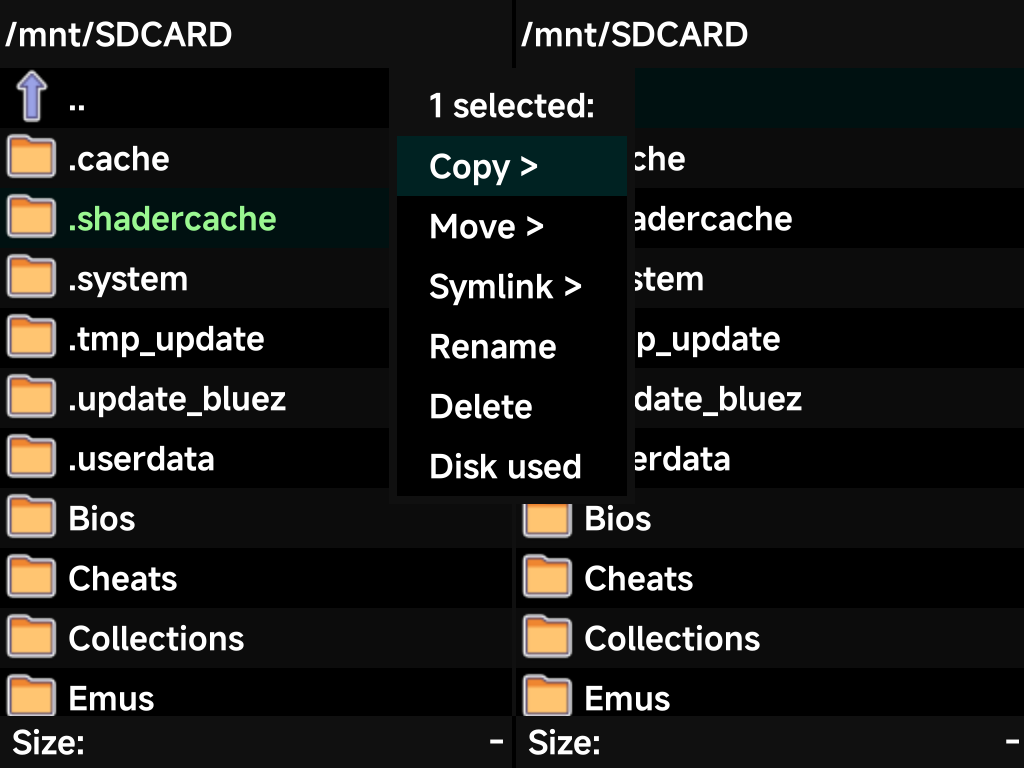
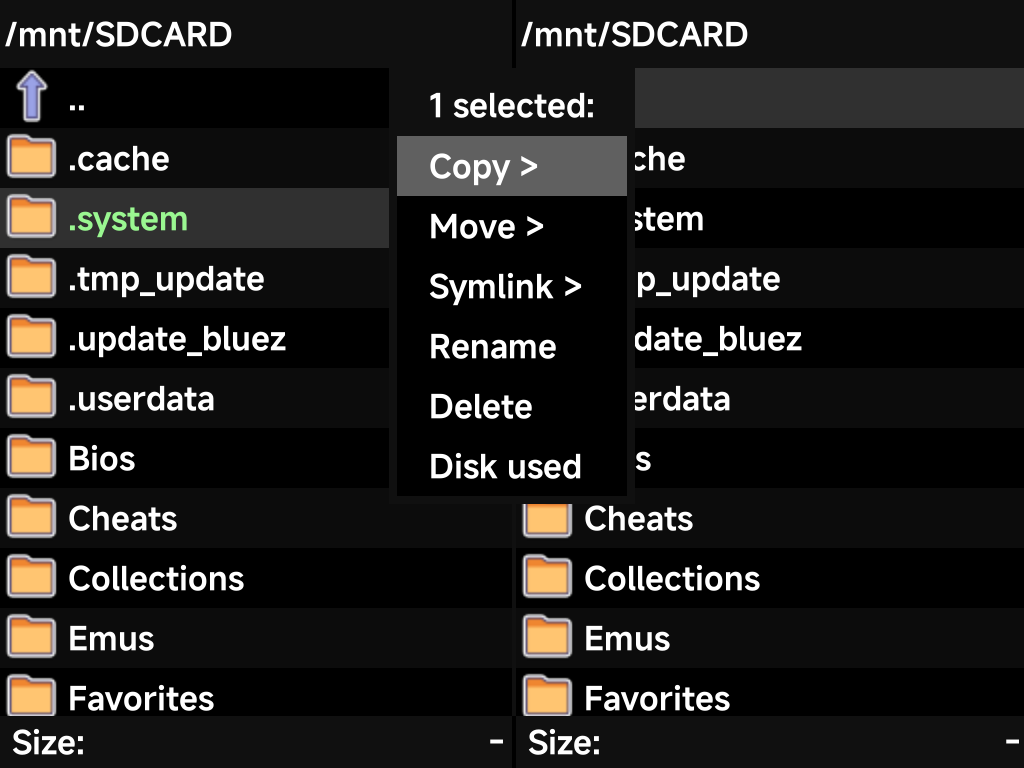
docs(files): refresh screenshots for the gray cursor, note stick navigation, hold-to-scroll and the button layout

diff --git a/docs/apps/files.md b/docs/apps/files.md
@@ -7,10 +7,16 @@ card and copy, move, rename or delete files without a computer.
 
 - Two independent panes make copying between folders straightforward — set
   each pane to a location and transfer between them.
+- The D-pad or the left stick moves the cursor; `LEFT` / `RIGHT` switch
+  panes. Hold a direction to scroll through a long folder.
 - `A` opens the selected folder or file, `B` goes up a directory.
 - `X` opens the **file actions** menu for the current selection.
 - `MENU` (or `Y`) opens the system menu: **Select all / Select none**, **New
   directory**, **Disk info**, and **Quit** to leave the app.
+
+The face buttons follow the device-wide
+[Button Layout](../guide/button-layout.md) setting — under the Xbox layout
+the bottom button is `A` here too.
 
 ## File actions
 
